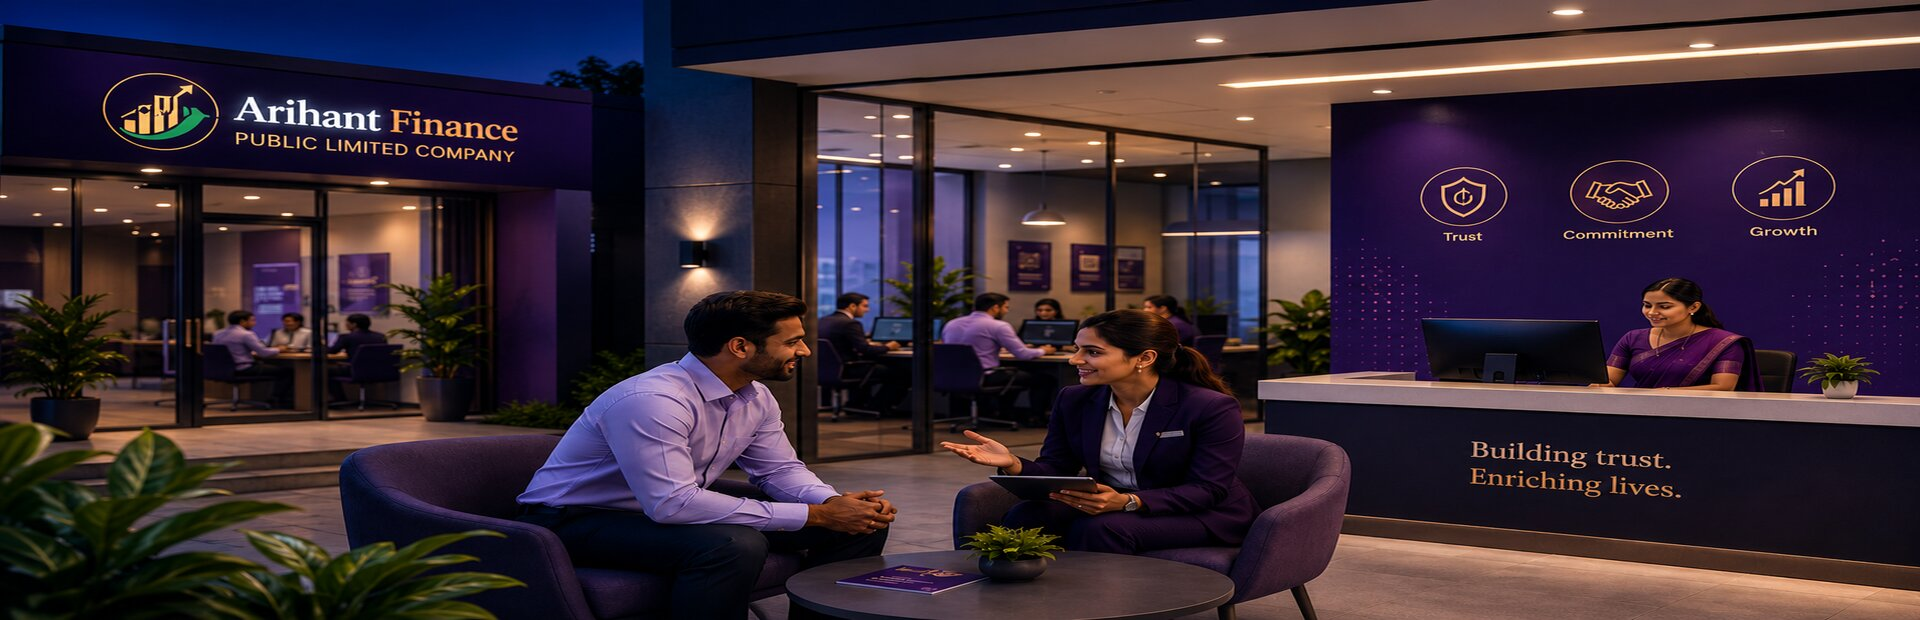
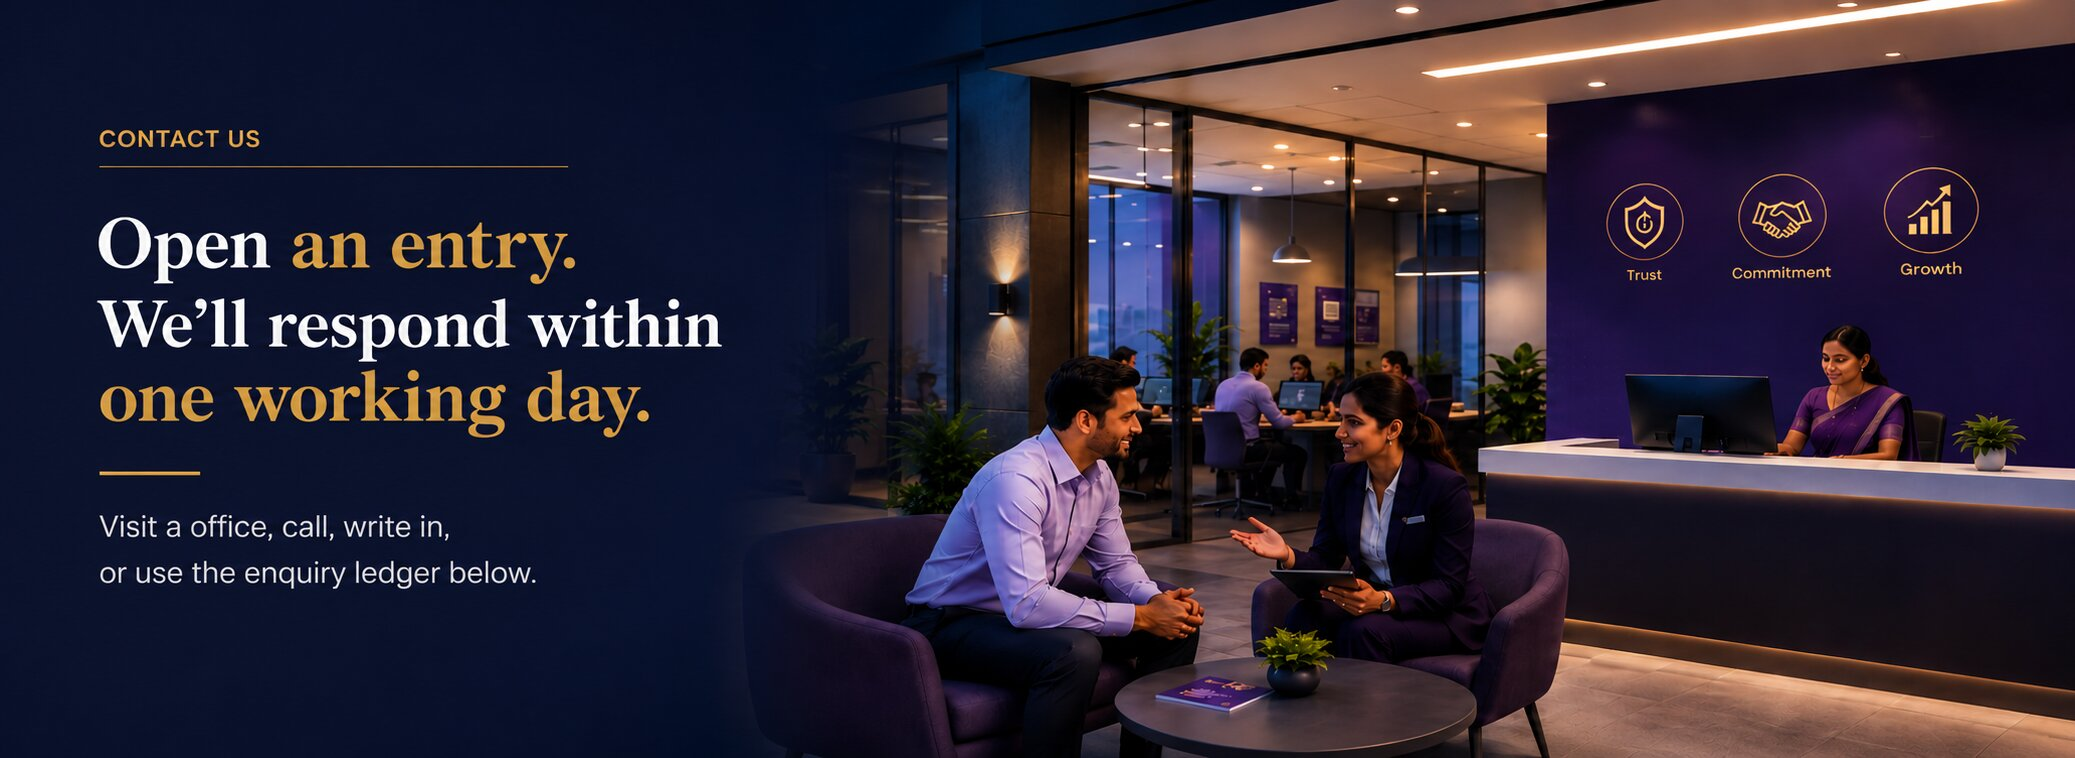
Updated contact page

diff --git a/contact.html b/contact.html
@@ -4,6 +4,7 @@
 <meta charset="UTF-8" />
 <meta name="viewport" content="width=device-width, initial-scale=1.0" />
 <title>Contact Us — Arihant Finance Public Limited Company</title>
+<meta name="description" content="Contact Arihant Finance Public Limited Company. Visit our head office in Jaipur, call, or submit an enquiry — we respond within one working day." />
 <link rel="stylesheet" href="common/common.css?v=2" />
 <link rel="stylesheet" href="contact.css?v=2" />
 </head>
@@ -146,7 +147,7 @@
   </div>
   <div class="container"><div class="ledger-rule"></div></div>
   <div class="footer-bottom">
-    <span>© 1998–2026 Arihant Finance Public Limited Company. All rights reserved.</span>
+    <span>© 1993–2026 Arihant Finance Public Limited Company. All rights reserved.</span>
     <span>CIN &amp; NBFC registration details available on request at any branch.</span>
   </div>
 </footer>

diff --git a/about.html b/about.html
@@ -4,6 +4,7 @@
 <meta charset="UTF-8" />
 <meta name="viewport" content="width=device-width, initial-scale=1.0" />
 <title>About Us — Arihant Finance Public Limited Company</title>
+<meta name="description" content="From a single branch in 1998 to a public limited company with 142 branches. Learn about Arihant Finance's mission, milestones, and commitment to transparent lending." />
 <link rel="stylesheet" href="common/common.css?v=2" />
 <link rel="stylesheet" href="about.css?v=3" />
 </head>

diff --git a/career.html b/career.html
@@ -4,6 +4,7 @@
 <meta charset="UTF-8" />
 <meta name="viewport" content="width=device-width, initial-scale=1.0" />
 <title>Career — Arihant Finance Public Limited Company</title>
+<meta name="description" content="Join Arihant Finance. View current openings in branch relationship management, credit analysis, field lending, and business development across Rajasthan." />
 <link rel="stylesheet" href="common/common.css?v=2" />
 <link rel="stylesheet" href="career.css?v=2" />
 </head>

diff --git a/home.html b/home.html
@@ -4,6 +4,7 @@
 <meta charset="UTF-8" />
 <meta name="viewport" content="width=device-width, initial-scale=1.0" />
 <title>Arihant Finance Public Limited Company — Home</title>
+<meta name="description" content="Trusted NBFC offering Group, Housing, Dairy, Business, Vehicle, Personal, SME loans and Insurance across Rajasthan. 27+ years, 142 branches, transparent lending you can rely on." />
 <link rel="stylesheet" href="common/common.css?v=2" />
 <link rel="stylesheet" href="home.css?v=2" />
 </head>

diff --git a/services.html b/services.html
@@ -4,6 +4,7 @@
 <meta charset="UTF-8" />
 <meta name="viewport" content="width=device-width, initial-scale=1.0" />
 <title>Services — Arihant Finance Public Limited Company</title>
+<meta name="description" content="Explore 9 loan products from Arihant Finance: Group Loan, Housing Loan, Dairy Loan, Business Loan, Vehicle Loan, JIT Loan, Personal Loan, Insurance, and SME Loan." />
 <link rel="stylesheet" href="common/common.css?v=2" />
 <link rel="stylesheet" href="services.css?v=2" />
 </head>